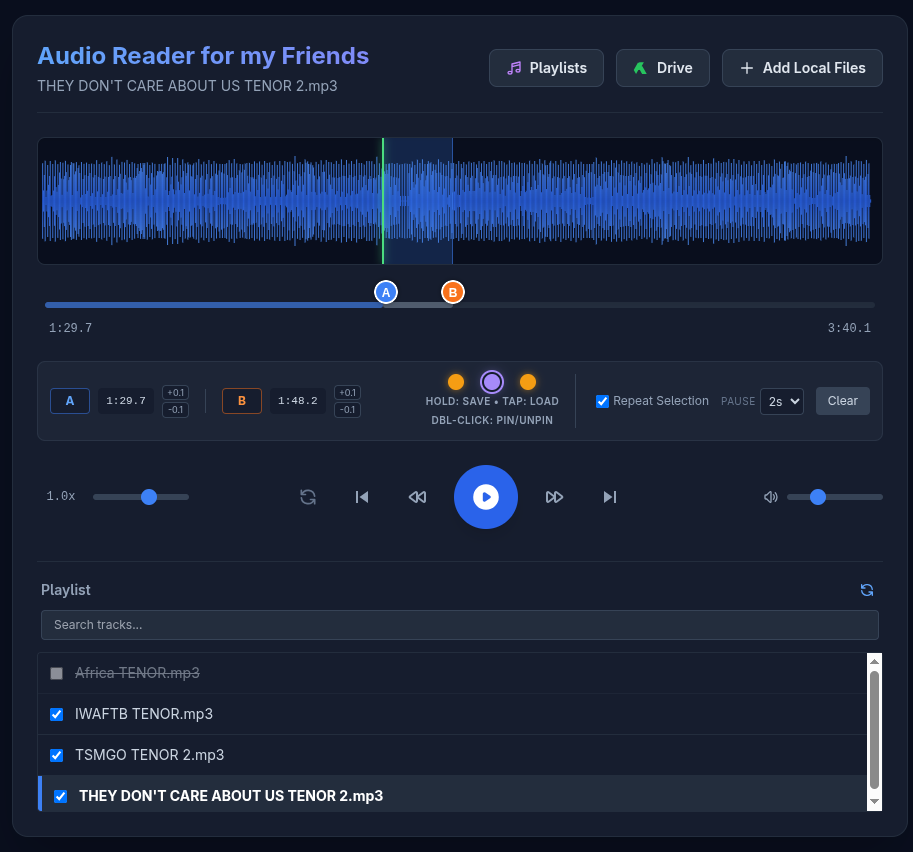
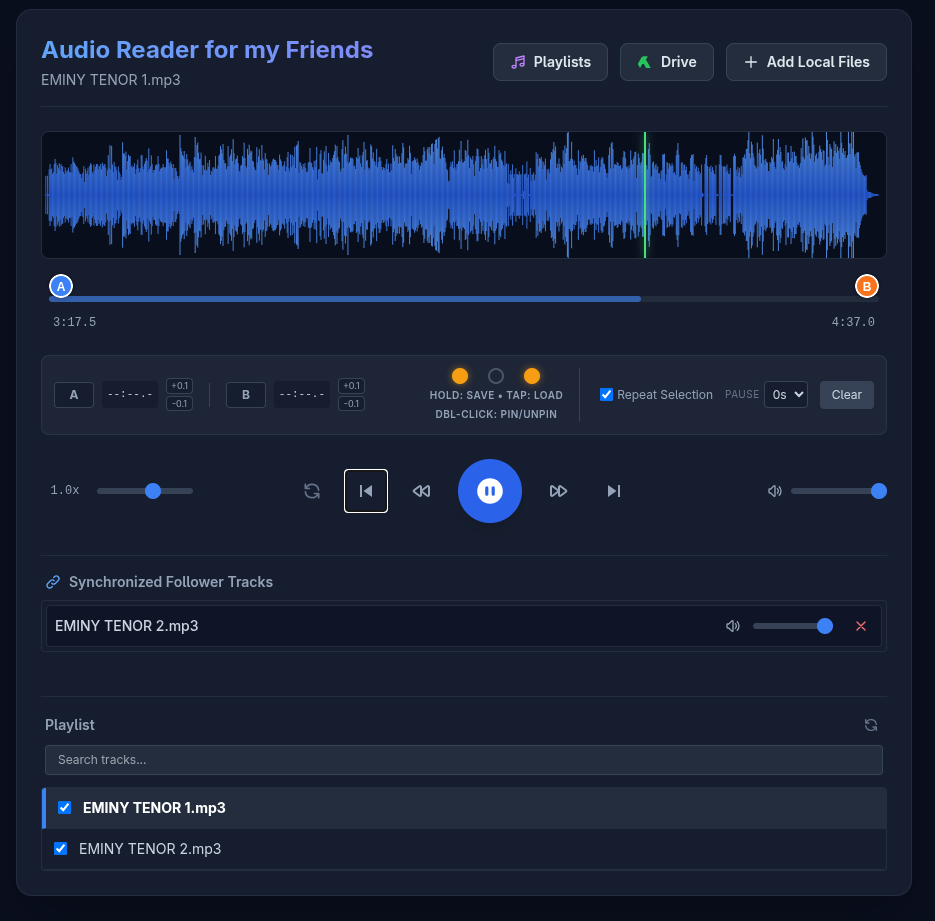
index.html - support follower tracks

diff --git a/index.html b/index.html
@@ -384,6 +384,17 @@
             </div>
         </div>
 
+        <!-- Follower Tracks Section -->
+        <div id="followers-container" class="mt-2 border-t border-slate-800 pt-4 hidden">
+            <h3 class="text-sm font-semibold text-slate-400 mb-2 px-1 flex items-center gap-2">
+                <svg class="w-4 h-4 text-blue-400" fill="none" stroke="currentColor" viewBox="0 0 24 24"><path stroke-linecap="round" stroke-linejoin="round" stroke-width="2" d="M13.828 10.172a4 4 0 00-5.656 0l-4 4a4 4 0 105.656 5.656l1.102-1.101m-.758-4.899a4 4 0 005.656 0l4-4a4 4 0 00-5.656-5.656l-1.1 1.1"></path></svg>
+                Synchronized Follower Tracks
+            </h3>
+            <ul id="followers-list" class="space-y-1 mb-3 bg-slate-900 border border-slate-800 rounded p-1">
+                <!-- Injected via JS -->
+            </ul>
+        </div>
+
         <!-- Playlist -->
         <div class="mt-2 border-t border-slate-800 pt-4">
             <div class="flex items-center justify-between mb-2 px-1">
@@ -455,11 +466,11 @@
             
             <!-- Added Version and Date -->
             <p class="text-xs text-slate-500 mb-4 font-mono">
-                Version 1.8.0 &bull; November 2026
+                Version 2.0.0 &bull; November 2026
             </p>
             
             <p class="text-sm text-slate-300 mb-4 leading-relaxed">
-                Audio Reader for my Friends is a lightweight, web-based audio player designed for seamless playback, looping, and memory bank management of your local and Google Drive MP3 files.
+                Audio Reader for my Friends is a lightweight, web-based audio player designed for seamless playback, looping, memory bank management, and synchronized follower tracks for your local and Google Drive audio files.
             </p>
 
             <div class="bg-slate-950 rounded border border-slate-800 p-3 mb-6 space-y-2 text-xs">
@@ -562,6 +573,9 @@
             btnClearSearch: document.getElementById('btn-clear-search'),
             title: document.getElementById('now-playing-title'),
             
+            followersContainer: document.getElementById('followers-container'),
+            followersList: document.getElementById('followers-list'),
+            
             btnDriveModal: document.getElementById('btn-drive-modal'),
             driveModal: document.getElementById('drive-modal'),
             driveSearch: document.getElementById('drive-search'),
@@ -600,6 +614,10 @@
         let isReordering = false;
         let draggedItemIndex = null;
 
+        // Synchronous Follower Tracks State
+        let followers = [];
+        let followerIdCounter = 0;
+
         const isGAS = typeof google !== 'undefined' && google.script && google.script.run;
         let driveNextPageToken = null;
         
@@ -611,6 +629,115 @@
         // Global Pinning State
         let pinnedBanks = [false, false, false];
         let globalMemoryBanks = [null, null, null];
+
+        // --- Follower Tracks Core Logic ---
+        window.addFollower = function(index) {
+            const file = playlistFiles[index].file;
+            if (!file) return;
+            
+            const audioObj = new Audio(URL.createObjectURL(file));
+            audioObj.preservesPitch = true;
+            audioObj.volume = 1.0;
+            audioObj.currentTime = els.audio.currentTime;
+            audioObj.playbackRate = els.audio.playbackRate;
+            
+            if (!els.audio.paused) {
+                audioObj.play().catch(e => console.log(e));
+            }
+            
+            const follower = {
+                id: followerIdCounter++,
+                file: file,
+                audio: audioObj,
+                volume: 1.0
+            };
+            
+            followers.push(follower);
+            renderFollowers();
+        };
+
+        window.removeFollower = function(id) {
+            const index = followers.findIndex(f => f.id === id);
+            if (index > -1) {
+                followers[index].audio.pause();
+                followers[index].audio.src = '';
+                followers.splice(index, 1);
+                renderFollowers();
+            }
+        };
+
+        function renderFollowers() {
+            if (followers.length === 0) {
+                els.followersContainer.classList.add('hidden');
+                return;
+            }
+            els.followersContainer.classList.remove('hidden');
+            els.followersList.innerHTML = '';
+            
+            followers.forEach(f => {
+                const li = document.createElement('li');
+                li.className = "flex items-center justify-between p-2 rounded text-sm text-slate-300 bg-slate-950/50 border border-slate-800";
+                
+                const nameSpan = document.createElement('span');
+                nameSpan.className = "truncate flex-grow mr-2 font-medium";
+                nameSpan.innerText = f.file.name;
+                
+                const rightDiv = document.createElement('div');
+                rightDiv.className = "flex items-center gap-3 shrink-0";
+                
+                // Volume slider for follower track
+                const volIcon = document.createElement('span');
+                volIcon.innerHTML = `<svg class="w-4 h-4 text-slate-400" fill="none" stroke="currentColor" viewBox="0 0 24 24"><path stroke-linecap="round" stroke-linejoin="round" stroke-width="2" d="M15.536 8.464a5 5 0 010 7.072m2.828-9.9a9 9 0 010 12.728M5.586 15H4a1 1 0 01-1-1v-4a1 1 0 011-1h1.586l4.707-4.707C10.923 3.663 12 4.109 12 5v14c0 .891-1.077 1.337-1.707.707L5.586 15z"></path></svg>`;
+                const volSlider = document.createElement('input');
+                volSlider.type = 'range';
+                volSlider.min = 0; volSlider.max = 1; volSlider.step = 0.01;
+                volSlider.value = f.volume;
+                volSlider.className = "standard-slider w-20";
+                volSlider.oninput = (e) => {
+                    f.volume = parseFloat(e.target.value);
+                    f.audio.volume = f.volume;
+                };
+                
+                // Remove follower button
+                const btnDel = document.createElement('button');
+                btnDel.innerHTML = `<svg class="w-4 h-4 text-red-400" fill="none" stroke="currentColor" viewBox="0 0 24 24"><path stroke-linecap="round" stroke-linejoin="round" stroke-width="2" d="M6 18L18 6M6 6l12 12"></path></svg>`;
+                btnDel.className = "p-1 hover:text-red-300 hover:bg-slate-700 rounded transition-colors ml-1";
+                btnDel.title = "Remove Follower";
+                btnDel.onclick = () => removeFollower(f.id);
+                
+                rightDiv.appendChild(volIcon);
+                rightDiv.appendChild(volSlider);
+                rightDiv.appendChild(btnDel);
+                
+                li.appendChild(nameSpan);
+                li.appendChild(rightDiv);
+                els.followersList.appendChild(li);
+            });
+        }
+
+        // --- Lead Audio Event Synchronization with Followers ---
+        els.audio.addEventListener('play', () => {
+            followers.forEach(f => {
+                f.audio.currentTime = els.audio.currentTime;
+                f.audio.play().catch(e => console.log(e));
+            });
+            updatePlayState();
+        });
+        
+        els.audio.addEventListener('pause', () => {
+            followers.forEach(f => f.audio.pause());
+            updatePlayState();
+        });
+        
+        els.audio.addEventListener('seeked', () => {
+            followers.forEach(f => {
+                f.audio.currentTime = els.audio.currentTime;
+            });
+        });
+        
+        els.audio.addEventListener('ratechange', () => {
+            followers.forEach(f => f.audio.playbackRate = els.audio.playbackRate);
+        });
 
         // --- Persistence (IndexedDB) ---
         const dbName = "AudioReaderDB";
@@ -1297,6 +1424,14 @@
 
                 const rightDiv = document.createElement('div');
                 rightDiv.className = "flex items-center gap-1 playlist-controls";
+                
+                // Add Follower (Sync) Track Button
+                const btnSync = document.createElement('button');
+                btnSync.innerHTML = `<svg class="w-4 h-4" fill="none" stroke="currentColor" viewBox="0 0 24 24"><path stroke-linecap="round" stroke-linejoin="round" stroke-width="2" d="M13.828 10.172a4 4 0 00-5.656 0l-4 4a4 4 0 105.656 5.656l1.102-1.101m-.758-4.899a4 4 0 005.656 0l4-4a4 4 0 00-5.656-5.656l-1.1 1.1"></path></svg>`;
+                btnSync.title = "Add as synchronously playing follower track";
+                btnSync.className = "p-1 hover:text-blue-400 hover:bg-slate-700 rounded transition-colors";
+                btnSync.onclick = (e) => { e.stopPropagation(); addFollower(index); };
+
                 const btnUp = document.createElement('button');
                 btnUp.innerHTML = `<svg class="w-4 h-4" fill="none" stroke="currentColor" viewBox="0 0 24 24"><path stroke-linecap="round" stroke-linejoin="round" stroke-width="2" d="M5 15l7-7 7 7"></path></svg>`;
                 btnUp.className = "p-1 hover:text-white hover:bg-slate-700 rounded transition-colors disabled:opacity-30";
@@ -1312,6 +1447,7 @@
                 btnDel.className = "p-1 hover:text-red-300 hover:bg-slate-700 rounded transition-colors ml-1";
                 btnDel.onclick = (e) => { e.stopPropagation(); deleteTrack(index); };
 
+                rightDiv.appendChild(btnSync);
                 rightDiv.appendChild(btnUp); rightDiv.appendChild(btnDown); rightDiv.appendChild(btnDel);
                 li.appendChild(leftDiv); li.appendChild(rightDiv);
                 els.playlist.appendChild(li);
@@ -1427,6 +1563,13 @@
             const percent = (cur / els.audio.duration) * 100;
             els.progressFill.style.width = `${percent}%`; els.playhead.style.left = `${percent}%`;
 
+            // Drift correction for Follower Tracks
+            followers.forEach(f => {
+                if (!f.audio.paused && Math.abs(f.audio.currentTime - cur) > 0.15) {
+                    f.audio.currentTime = cur;
+                }
+            });
+
             if (loopA !== null && loopB !== null && cur >= loopB && !isLoopPausing) {
                 if (els.loopIndef.checked) {
                     const pauseTime = parseInt(els.loopPause.value) * 1000;
@@ -1460,7 +1603,7 @@
             if (isRepeatPlaylist) els.btnPlaylistRepeat.classList.replace('text-slate-500', 'text-blue-400');
             else els.btnPlaylistRepeat.classList.replace('text-blue-400', 'text-slate-500');
         };
-        els.playBtn.onclick = () => { if (!els.audio.src) return; els.audio.paused ? els.audio.play() : els.audio.pause(); updatePlayState(); };
+        els.playBtn.onclick = () => { if (!els.audio.src) return; els.audio.paused ? els.audio.play() : els.audio.pause(); };
         els.btnPrev.onclick = () => els.audio.currentTime = 0;
         els.btnBack.onclick = () => els.audio.currentTime = Math.max(0, els.audio.currentTime - 5);
         els.btnFwd.onclick = () => els.audio.currentTime = Math.min(els.audio.duration, els.audio.currentTime + 5);

diff --git a/README.md b/README.md
@@ -2,13 +2,16 @@
 
 ![Screenshot of the Audio Reader app interface](image.png)
 
-Audio Reader for my Friends is a lightweight, web-based audio player designed for seamless playback, looping, and memory bank management of your local and Google Drive audio files. 
+Audio Reader for my Friends is a lightweight, web-based audio player designed for seamless playback, looping, memory bank management, and synchronized follower tracks for your local and Google Drive audio files. 
 
 ## Features
 
 **Core Playback & Navigation**
 
 * **Local & Cloud Playback:** Load audio files (MP3, WAV, OGG) via local file upload, drag-and-drop, or browse and download directly from Google Drive with built-in search and pagination.
+
+
+* **Synchronized Follower Tracks:** Select secondary tracks from your playlist to act as synchronous followers. These tracks perfectly mirror the main lead track's commands (play, pause, seek, A-B loop jumps, and speed changes) with built-in drift correction, while allowing independent volume control for each follower.
 
 
 * **Playback Controls:** Play, pause, skip to next/previous tracks, rewind 5 seconds, and fast-forward 5 seconds.
